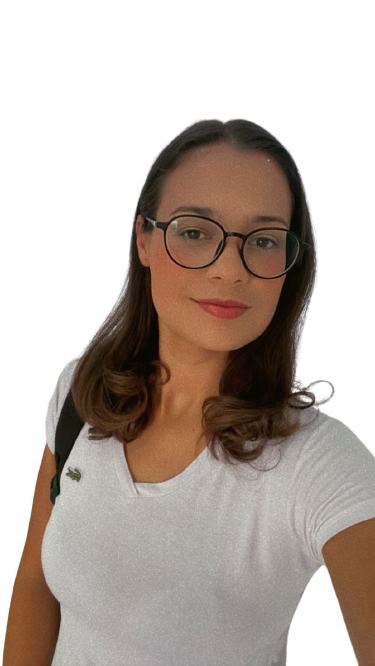
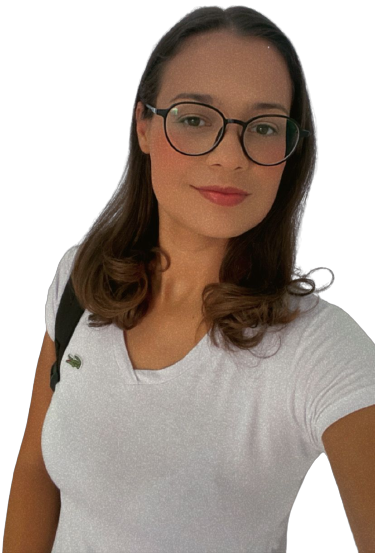
quase finalizado

diff --git a/index.html b/index.html
@@ -29,18 +29,17 @@
                 <path d="M4.646 4.646a.5.5 0 0 1 .708 0L8 7.293l2.646-2.647a.5.5 0 0 1 .708.708L8.707 8l2.647 2.646a.5.5 0 0 1-.708.708L8 8.707l-2.646 2.647a.5.5 0 0 1-.708-.708L7.293 8 4.646 5.354a.5.5 0 0 1 0-.708z"/>
             </svg>
         </button>
-        <a href="#" class="active"> Menu </a>
-        <a href="#" class="active">Quem Sou</a>
-        <a href="#" class="active">Experiências</a>
-        <a href="#" class="active">Cursos</a>
-        <a href="#" class="active">Contato</a>
+        <a href="#tela1" class="active">Quem Sou</a>
+        <a href="#tela2" class="active">Experiências</a>
+        <a href="#tela3" class="active">Cursos</a>
+        <a href="#tela4" class="active">Contato</a>
     </div>
 </header>
 
     <body>
 
 
-        <div class="tela1">
+        <div class="tela1" id="tela1">
             <div class="eu">
                 <text class="tituloeu"><b>Quem sou</b></text>
             
@@ -62,33 +61,37 @@
         </div>
 
 
-        <div class="tela2">
-            <p class="tituloexperiencia">Experiência</p>
-                
-            <p class="textoexperiencia">
-                <ul>Empresa: Colégio Sorocaba</ul>
-                <ul>Área: Auxiliar Administrativo</ul>
-                <ul>Período: 4 anos e 9 meses</ul>
-                <ul>Empresa: Colégio Adventista de Taboão da Serra</ul>
-                <ul>Área: Aux. Administrativo, Monitora de aluno e auxiliar de classe.</ul>
-                <ul>Período: 2 anos</ul>
-                <ul>Empresa: Polícia Militar do Estado de São Paulo</ul>
-                <ul>Área: Aux. Administrativo Temporário</ul>
-                <ul>Período: 2 anos</ul>
-                <ul>Empresa: Colégio Boscarioli</ul>
-                <ul>Área: Secretária</ul>
-                <ul>Período: 1 ano e 4 meses</ul>
-                <ul>Empresa: Interfile Gestão de Arquivos e Documentos</ul>
-                <ul>Área: Aux. Administrativo  Menor Aprendiz</ul>
-                <ul>Período: 1 ano e 7 meses</ul>
-            </p>
+        <div class="tela2" id="tela2">
+            <div class="texto2">            
+                <text class="tituloexperiencia">Experiência</text>
+                    
+                <text class="textoexperiencia">
+                    <ul>Empresa: Colégio Sorocaba</ul>
+                    <ul>Área: Auxiliar Administrativo</ul>
+                    <ul>Período: 4 anos e 9 meses</ul>
+                    <ul>Empresa: Colégio Adventista de Taboão da Serra</ul>
+                    <ul>Área: Aux. Administrativo, Monitora de aluno e auxiliar de classe.</ul>
+                    <ul>Período: 2 anos</ul>
+                    <ul>Empresa: Polícia Militar do Estado de São Paulo</ul>
+                    <ul>Área: Aux. Administrativo Temporário</ul>
+                    <ul>Período: 2 anos</ul>
+                    <ul>Empresa: Colégio Boscarioli</ul>
+                    <ul>Área: Secretária</ul>
+                    <ul>Período: 1 ano e 4 meses</ul>
+                    <ul>Empresa: Interfile Gestão de Arquivos e Documentos</ul>
+                    <ul>Área: Aux. Administrativo  Menor Aprendiz</ul>
+                    <ul>Período: 1 ano e 7 meses</ul>
+                </text>
+            </div>
+
+            <img src="./Imagem/Amabileselfie.png" alt="" class="imagem2">
         </div>
 
 
-        <div class="tela3">
-            <p class="titulocurso">Cursos</p>
+        <div class="tela3" id="tela3">
+            <text class="titulocurso">Cursos</text>
             
-            <p class="textocurso">
+            <text class="textocurso">
                 <ul> - Administração; Contabilidade; Marketing; Marketing Pessoal; Informática; Comunicação e Expressão; Primeiros Socorros – CIEE;</ul>
                 <ul> - Cursos de Formação Administrativo do Serviço Auxiliar Voluntário da Segurança Pública  PMESP;</ul>
                 <ul> - Finanças Pessoais  SENAI;</ul>
@@ -97,14 +100,14 @@
                 <ul> - Marketing Digital;</ul>
                 <ul> - Tráfego Pago;</ul>
                 <ul> - Criação de conteúdos para internet.</ul>
-            </p>
+            </text>
         </div>
 
 
-        <div class="tela4">
+        <div class="tela4" id="tela4">
             <p class="titulocontato">Contato</p>
 
-            <div class="textocontao">
+            <div class="icones">
                 <p><a href="mailto:amabiledaiannecontato@gmail.com">
                     <img src="./Imagem/email_PNG15.png" class="emailicone">
                 </a></p>

diff --git a/style.css b/style.css
@@ -1,4 +1,8 @@
 
+html{
+    scroll-behavior: smooth;
+}
+
         :root{
             --color-white: #fff;
             --color-dark1: #ffc0b4;
@@ -9,25 +13,32 @@
             --color-puple: #034c52;
         }
 
-
         *{
         margin: 0;
         padding: 0;
         }
+
         body{
             font-family: Arial, Helvetica, sans-serif;
             background-color: var(--color-dark1);
             color: var(--color-white);
         }
+
+        body div{
+            height: 100vh;
+        }
+
         .img_logo_header{
             width: 10vw;
         }
+
         .header,
         .navigation_header{
             display: flex;
             flex-direction: row;
             align-items: center;
         }
+
         .header{
             background-color: var(--color-dark2);
             box-shadow: 1px 1px 4px var(--color-dark4);
@@ -35,6 +46,7 @@
             justify-content: space-around;
             position: fixed;
             width: 100vw;
+            z-index: 999;
         }
         .navigation_header{
             gap: 3em;
@@ -93,6 +105,7 @@
     display: flex;
     flex-direction: row;
     max-height: 100vh;
+    justify-content: space-between;
  }
 
  .eu{
@@ -104,7 +117,7 @@
 
 .tituloeu{
     font-size: 5vw;
-    
+    font-weight: bold;
 }
 
 .textoeu{
@@ -118,64 +131,95 @@
     width: auto;
     -webkit-filter: drop-shadow(5px 10px 20px #222);
     filter: drop-shadow(5px 15px 10px #222);
+    margin-top: 3vh;
 }
 
+.tela2{
+    display: flex;
+    flex-direction: row-reverse;
+    width: 100vw;
+    justify-content: space-between;
+}
 
+.imagem2{
+    padding: 5%;
+    height: 80vh;
+    width: auto;
+    -webkit-filter: drop-shadow(5px 10px 20px #222);
+    filter: drop-shadow(5px 15px 10px #222);
+}
 
-
-
-
-
-
-
-
-
-
-
-
-
-
-
-
-
-
-
-
- .contato{
+.texto2{
     display: flex;
     flex-direction: column;
-    align-items: center;
-    width: 70%
-    ;
- }
+    text-align: right;
+    padding: 5%;
+    font-size: 1.5vw;
+}
 
- .icones{
+.tituloexperiencia{
+    font-size: 3vw;
+    font-weight: bold;
+}
+
+.textoesperiencia{
+    text-align: justify;
+    font-size: 1.5vw;
+}
+
+.tela3{
+    display: flex;
+    flex-direction: column;
+    justify-content: center;
+    text-align: center;
+}
+
+.titulocurso{
+    font-size: 5vw;
+    font-weight: bold;
+}
+
+.textocurso{
+    font-size: 1.5vw;
+}
+
+.tela4{
+    display: flex;
+    flex-direction: column;
+    justify-content: center;
+    text-align: center;
+    align-items: center;
+}
+
+.icones{
     display: flex;
     flex-direction: row;
-    margin-top: 5%;
     justify-content: space-around;
- }
+    width: 100vw;
+    height: auto;
+    margin-top: 10vh;
+}
 
- .contato h1{
-    font-size: 4vw;
-    padding: 2%;
- }
+.titulocontato{
+    font-size: 3vw;
+    font-weight: bold;
+}
 
  .emailicone{
-    height: 10vh;
+    height: 20vh;
     width: auto; 
 
  }
  .telefoneicone{
-    height: 10vh;
+    height: 20vh;
     width: auto; 
  
  }
  .instaicone{
-    height: 10vh;
+    height: 20vh;
     width: auto; 
  }
  .inicone{
-    height: 10vh;
+    height: 20vh;
     width: auto; 
  }
